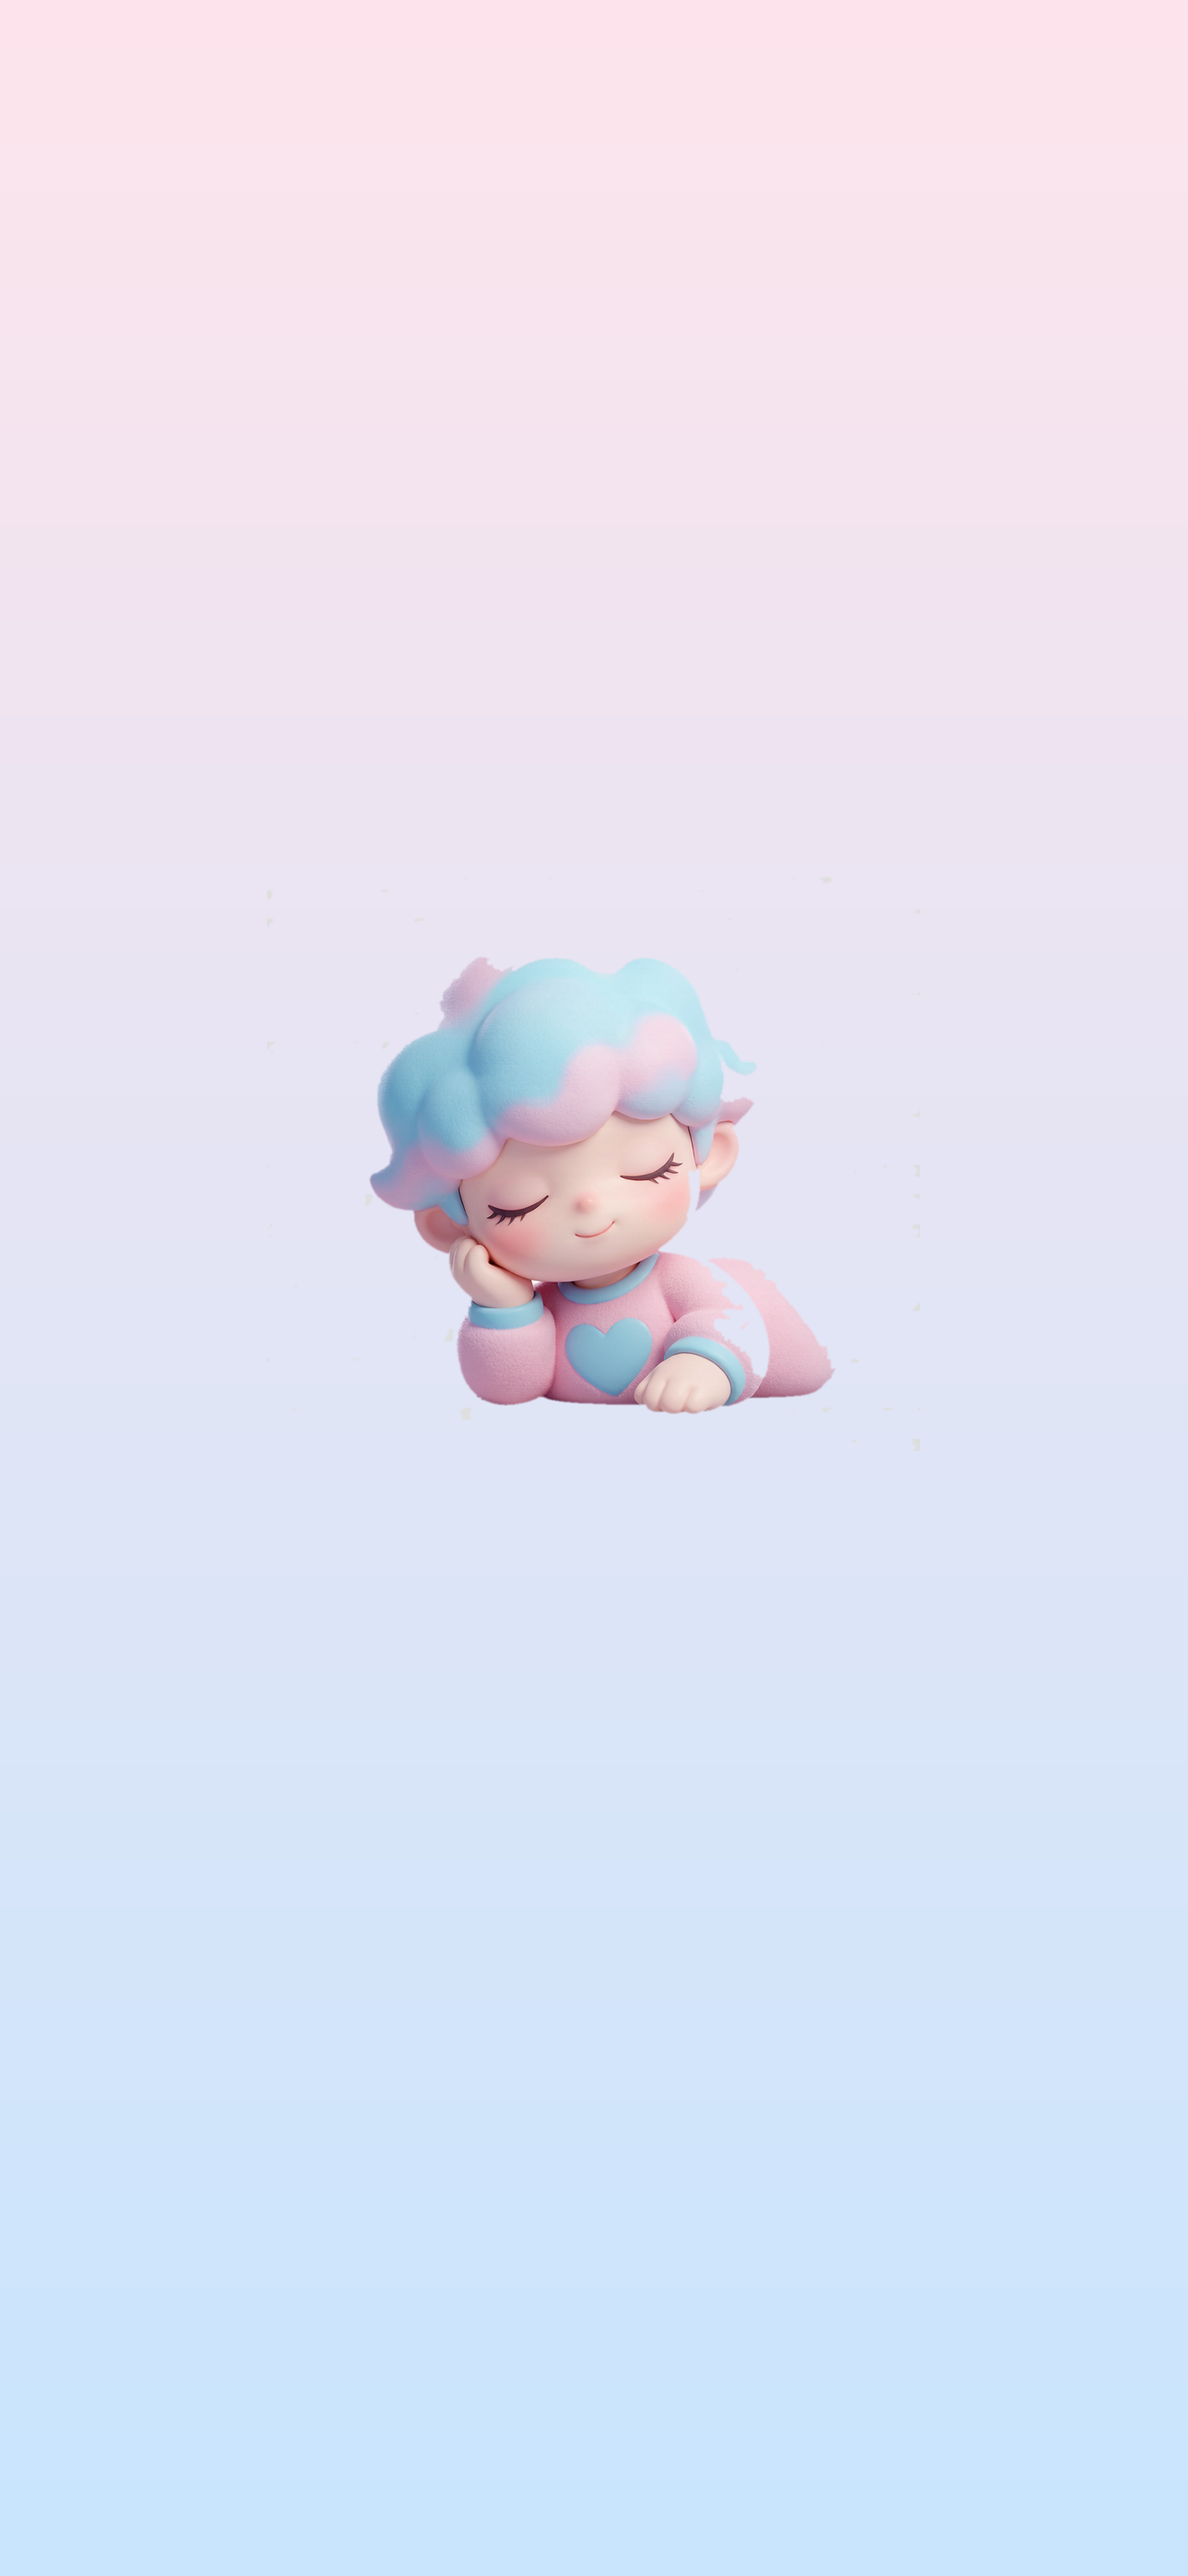
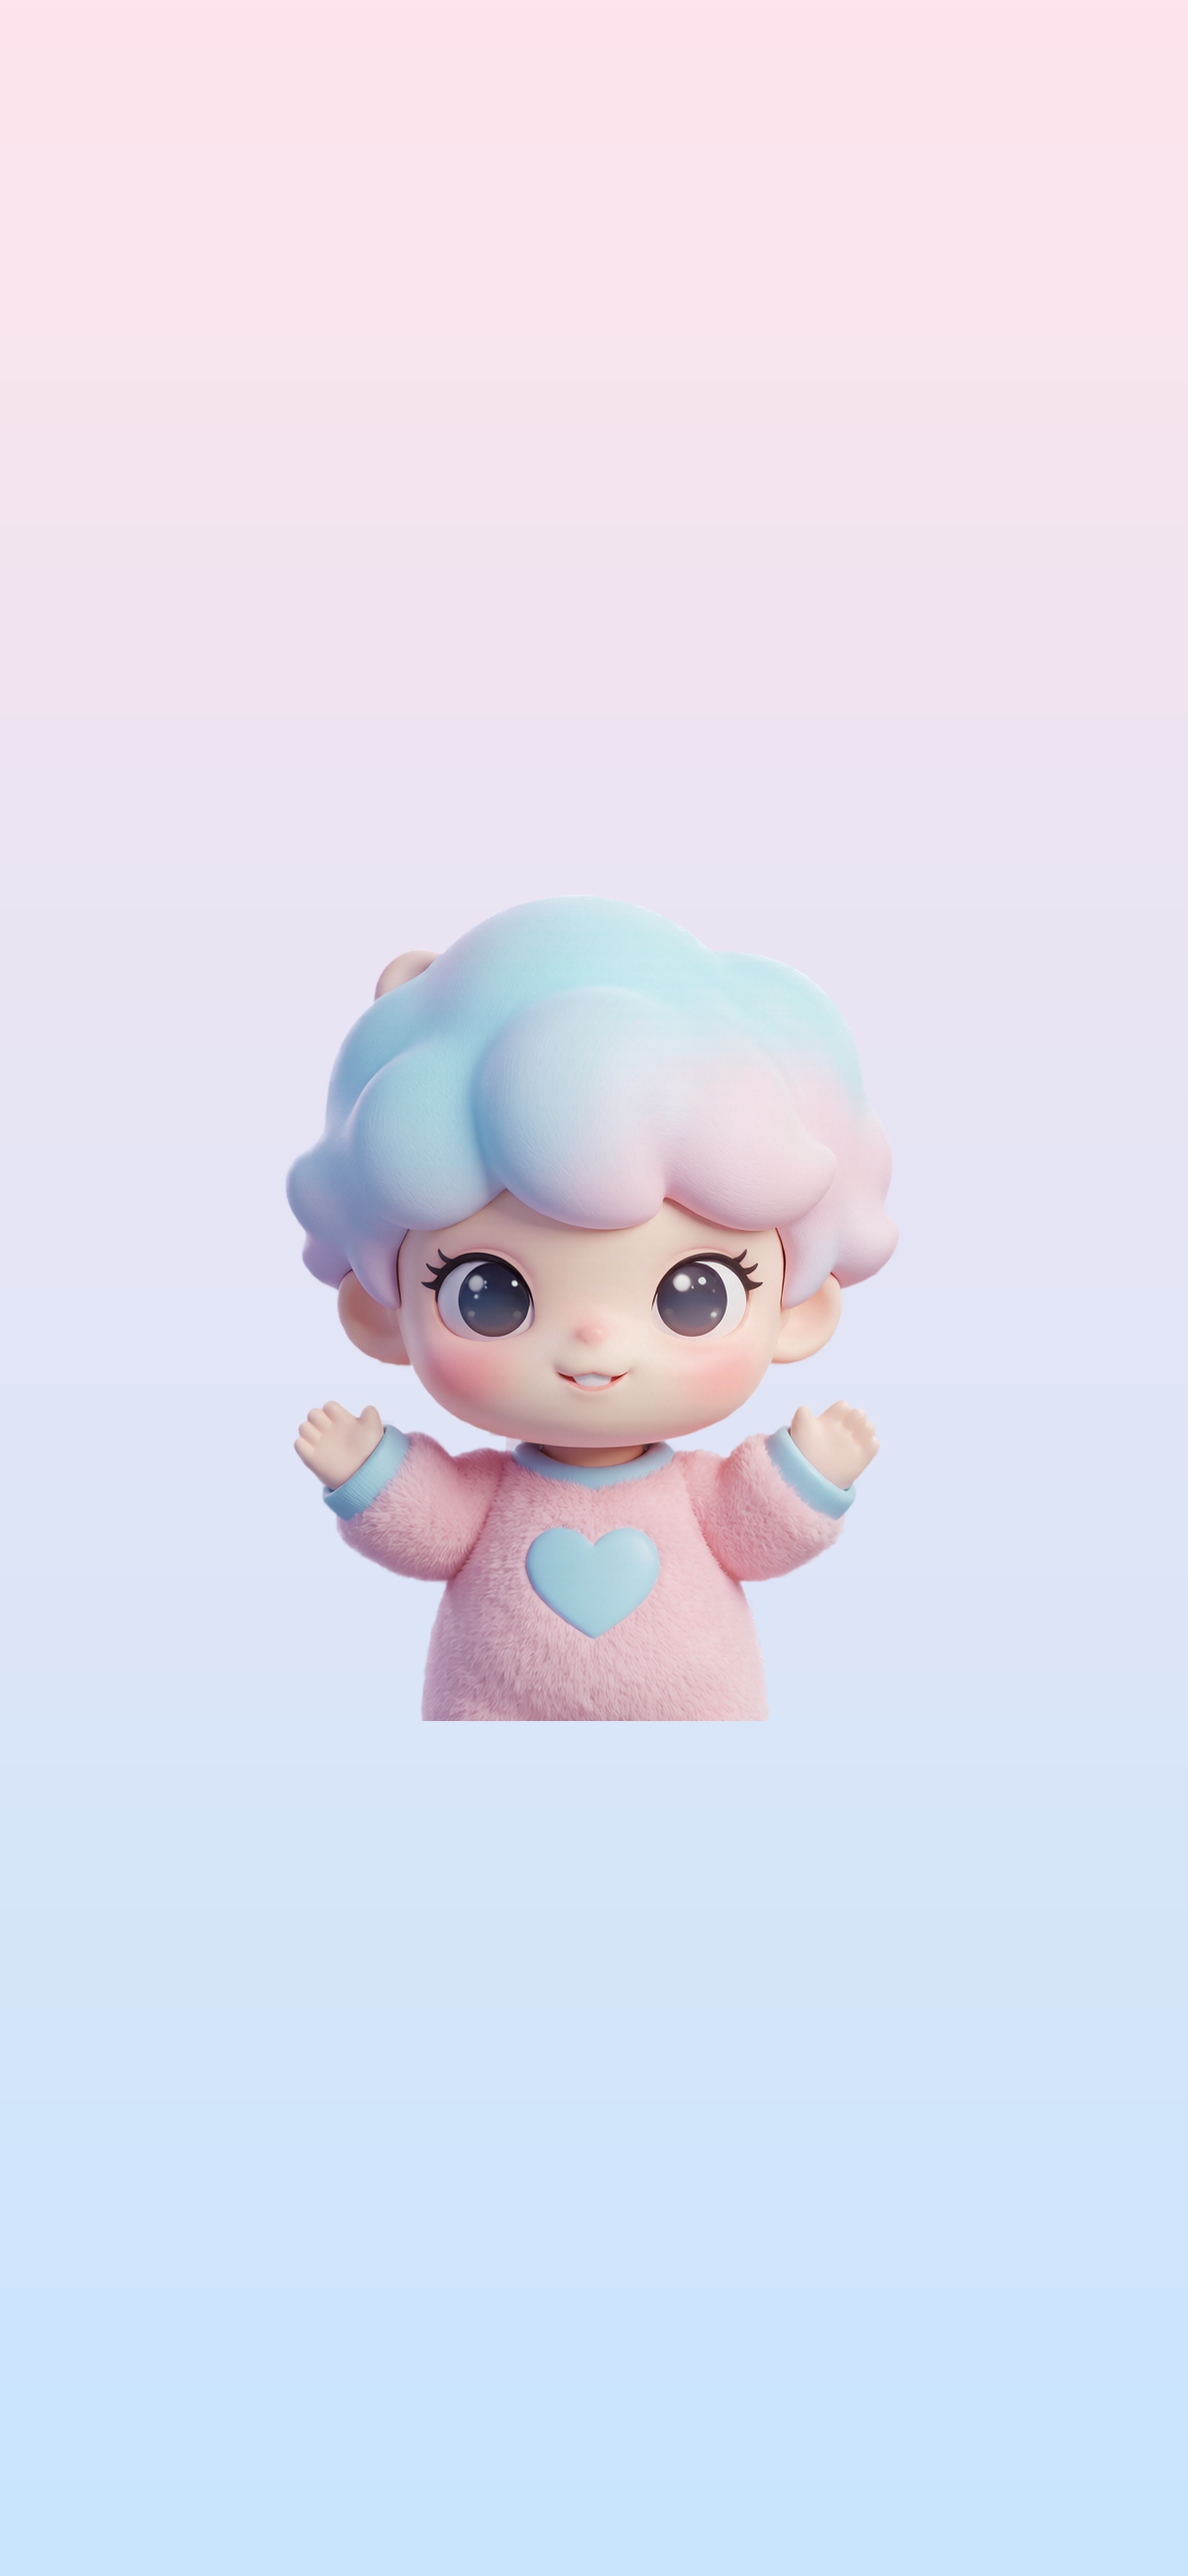
v17: 修复小满状态错误（peek 图误用睡觉图），rembg 重抠三张图，消除破洞/黑边

Changed region(s): [[0.2481, 0.3423, 0.7442, 0.6845]]

diff --git a/index.html b/index.html
@@ -6,19 +6,19 @@
   <meta name="theme-color" content="#66B6FF">
   <title>小满</title>
   <link rel="manifest" href="manifest.webmanifest">
-  <link rel="icon" href="icon.svg?v=16" type="image/svg+xml">
-  <link rel="apple-touch-icon" href="apple-touch-icon.png?v=16">
-  <link rel="icon" sizes="192x192" href="icon-192.png?v=16">
-  <link rel="icon" sizes="512x512" href="icon-512.png?v=16">
+  <link rel="icon" href="icon.svg?v=17" type="image/svg+xml">
+  <link rel="apple-touch-icon" href="apple-touch-icon.png?v=17">
+  <link rel="icon" sizes="192x192" href="icon-192.png?v=17">
+  <link rel="icon" sizes="512x512" href="icon-512.png?v=17">
   <!-- iOS PWA 启动屏：消除点击主屏图标时的黑色背景 -->
-  <link rel="apple-touch-startup-image" href="startup-1170x2532.png" media="(device-width: 390px) and (device-height: 844px) and (-webkit-device-pixel-ratio: 3)">
-  <link rel="apple-touch-startup-image" href="startup-1290x2796.png" media="(device-width: 430px) and (device-height: 932px) and (-webkit-device-pixel-ratio: 3)">
+  <link rel="apple-touch-startup-image" href="startup-1170x2532.png?v=17" media="(device-width: 390px) and (device-height: 844px) and (-webkit-device-pixel-ratio: 3)">
+  <link rel="apple-touch-startup-image" href="startup-1290x2796.png?v=17" media="(device-width: 430px) and (device-height: 932px) and (-webkit-device-pixel-ratio: 3)">
   <!-- iOS PWA 全屏 -->
   <meta name="apple-mobile-web-app-capable" content="yes">
   <meta name="apple-mobile-web-app-status-bar-style" content="black-translucent">
   <meta name="apple-mobile-web-app-title" content="小满">
-  <link rel="stylesheet" href="css/style.css?v=16">
-  <link rel="stylesheet" href="css/app-v2.css?v=16">
+  <link rel="stylesheet" href="css/style.css?v=17">
+  <link rel="stylesheet" href="css/app-v2.css?v=17">
 </head>
 <body>
   <!-- 梦幻背景装饰 -->
@@ -79,9 +79,9 @@
     </div>
     <div id="xm-bubble" class="xm-bubble" hidden></div>
     <button id="xm-doll" aria-label="小满吉祥物">
-      <img id="xm-img-sleep" class="xm-img xm-img-sleep" src="images/xiaoman-sleeping.png" alt="小满" draggable="false">
-      <img id="xm-img-rubbing" class="xm-img xm-img-rubbing" src="images/xiaoman-rubbing.png" alt="小满" draggable="false">
-      <img id="xm-img-peek" class="xm-img xm-img-peek" src="images/xiaoman-peek.png" alt="小满" draggable="false">
+      <img id="xm-img-sleep" class="xm-img xm-img-sleep" src="images/xiaoman-sleeping.png?v=17" alt="小满" draggable="false">
+      <img id="xm-img-rubbing" class="xm-img xm-img-rubbing" src="images/xiaoman-rubbing.png?v=17" alt="小满" draggable="false">
+      <img id="xm-img-peek" class="xm-img xm-img-peek" src="images/xiaoman-peek.png?v=17" alt="小满" draggable="false">
     </button>
   </div>
 
@@ -96,18 +96,18 @@
     </div>
   </div>
 
-  <script src="js/config.js?v=16"></script>
-  <script src="js/store.js?v=16"></script>
-  <script src="js/topbar.js?v=16"></script>
-  <script src="js/app.js?v=16"></script>
-  <script src="js/xiaoman.js?v=16"></script>
+  <script src="js/config.js?v=17"></script>
+  <script src="js/store.js?v=17"></script>
+  <script src="js/topbar.js?v=17"></script>
+  <script src="js/app.js?v=17"></script>
+  <script src="js/xiaoman.js?v=17"></script>
   <script>
     document.addEventListener('DOMContentLoaded', function () {
       Topbar.init();
       App.init();
       Xiaoman.init();
       if ('serviceWorker' in navigator) {
-        navigator.serviceWorker.register('sw.js?v=16').catch(function () {});
+        navigator.serviceWorker.register('sw.js?v=17').catch(function () {});
       }
     });
   </script>

diff --git a/sw.js b/sw.js
@@ -1,11 +1,11 @@
 /* 极简离线缓存：缓存应用外壳，导航走网络优先、失败回退缓存 */
-const CACHE = 'wb-shell-v16';
+const CACHE = 'wb-shell-v17';
 const FILES = [
-  'index.html', 'css/style.css?v=15', 'css/app-v2.css?v=15', 'js/config.js?v=15', 'js/store.js?v=15',
-  'js/topbar.js?v=15', 'js/app.js?v=15', 'js/xiaoman.js?v=15', 'manifest.webmanifest',
-  'images/xiaoman-sleeping.png', 'images/xiaoman-rubbing.png', 'images/xiaoman-peek.png',
-  'icon.svg?v=15', 'icon-192.png?v=15', 'icon-512.png?v=15', 'apple-touch-icon.png?v=15',
-  'startup-1170x2532.png', 'startup-1290x2796.png'
+  'index.html', 'css/style.css?v=17', 'css/app-v2.css?v=17', 'js/config.js?v=17', 'js/store.js?v=17',
+  'js/topbar.js?v=17', 'js/app.js?v=17', 'js/xiaoman.js?v=17', 'manifest.webmanifest',
+  'images/xiaoman-sleeping.png?v=17', 'images/xiaoman-rubbing.png?v=17', 'images/xiaoman-peek.png?v=17',
+  'icon.svg?v=17', 'icon-192.png?v=17', 'icon-512.png?v=17', 'apple-touch-icon.png?v=17',
+  'startup-1170x2532.png?v=17', 'startup-1290x2796.png?v=17'
 ];
 self.addEventListener('install', e => { e.waitUntil(caches.open(CACHE).then(c => c.addAll(FILES))); self.skipWaiting(); });
 self.addEventListener('activate', e => { e.waitUntil(caches.keys().then(ks => Promise.all(ks.filter(k => k !== CACHE).map(k => caches.delete(k))))); self.clients.claim(); });
